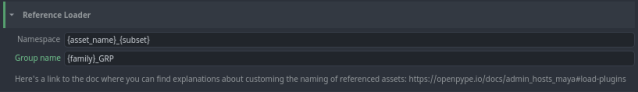
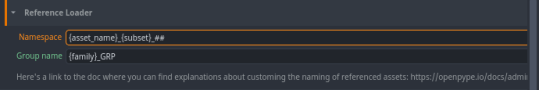
docs: add explanations for the index position in the namespace

Changed region(s): [[0.0, 0.0, 1.0, 1.0], [0.0, 0.0, 0.1781, 0.3111], [0.0, 0.5778, 0.2375, 0.6889]]

diff --git a/website/docs/admin_hosts_maya.md b/website/docs/admin_hosts_maya.md
@@ -106,6 +106,37 @@ or Deadlines **Draft Tile Assembler**.
 This is useful to fix some specific renderer glitches and advanced hacking of Maya Scene files. `Patch name` is label for patch for easier orientation.
 `Patch regex` is regex used to find line in file, after `Patch line` string is inserted. Note that you need to add line ending.
 
+## Load Plugins
+
+### Reference Loader
+
+#### Namespace and Group Name
+Here you can create your own custom naming for the reference loader.
+
+The custom naming is split into two parts: namespace and group name. If you don't set the namespace or the group name, an error will occur.
+Here's the different variables you can use:
+
+<div class="row markdown">
+<div class="col col--5 markdown">
+
+| Token | Description |
+|---|---|
+|`{asset_name}` | Asset name |
+|`{asset_type}` | Asset type |
+|`{subset}` | Subset name |
+|`{family}` | Subset family |
+
+</div>
+</div>
+
+The namespace field can contain a single group of '#' number tokens to indicate where the namespace's unique index should go. The amount of tokens defines the zero padding of the number, e.g ### turns into 001.
+
+Warning: Note that a namespace will always be prefixed with a _ if it starts with a digit.
+
+Example:
+
+![Namespace and Group Name](assets/maya-admin_custom_namespace.png)
+
 ### Extract GPU Cache
 
 ![Maya GPU Cache](assets/maya-admin_gpu_cache.png)